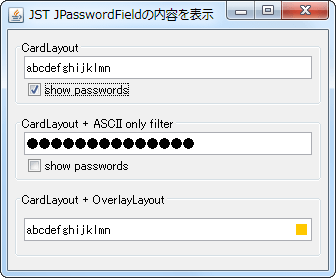
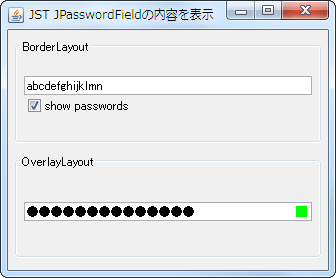
fix: use passwordField.setEchoChar((char) 0) instead of CardLayout + JTextField

diff --git a/ShowHidePasswordField/src/java/example/MainPanel.java b/ShowHidePasswordField/src/java/example/MainPanel.java
@@ -5,39 +5,38 @@ package example;
 import java.awt.*;
 import java.awt.event.*;
 import java.nio.charset.*;
+//import java.util.Objects;
 //import java.util.regex.*;
 import javax.swing.*;
 import javax.swing.text.*;
 
 public final class MainPanel extends JPanel {
-    private static final Font FONT = new Font(Font.MONOSPACED, Font.PLAIN, 12);
     public MainPanel() {
-        super(new GridLayout(3, 1, 0, 10));
-        add(makeTitlePanel(makeShowHidePasswordField(false), "CardLayout"));
-        add(makeTitlePanel(makeShowHidePasswordField(true), "CardLayout + ASCII only filter"));
+        super(new GridLayout(2, 1, 0, 10));
 
-        JPasswordField pf = new JPasswordField(24);
-        pf.setText("abcdefghijklmn");
-        AbstractDocument doc = (AbstractDocument) pf.getDocument();
-        doc.setDocumentFilter(new ASCIIOnlyDocumentFilter());
+        final JPasswordField pf1 = new JPasswordField(24);
+        pf1.setText("abcdefghijklmn");
+        JPanel p1 = new JPanel(new BorderLayout());
+        p1.add(pf1);
+        p1.add(new JCheckBox(new AbstractAction("show passwords") {
+            @Override public void actionPerformed(ActionEvent e) {
+                AbstractButton c = (AbstractButton) e.getSource();
+                Character ec = c.isSelected() ? 0 : (Character) UIManager.get("PasswordField.echoChar");
+                pf1.setEchoChar(ec);
+            }
+        }), BorderLayout.SOUTH);
+        add(makeTitlePanel(p1, "BorderLayout"));
 
-        JTextField tf = new JTextField(24);
-        tf.setFont(FONT);
-        tf.enableInputMethods(false);
-        tf.setDocument(doc);
-
-        final CardLayout cardLayout = new CardLayout();
-        final JPanel p = new JPanel(cardLayout);
-        p.setAlignmentX(Component.RIGHT_ALIGNMENT);
-
-        p.add(pf, PasswordField.HIDE.toString());
-        p.add(tf, PasswordField.SHOW.toString());
-
+        JPasswordField pf2 = new JPasswordField(24);
+        pf2.setText("abcdefghijklmn");
+        pf2.setAlignmentX(Component.RIGHT_ALIGNMENT);
+        //AbstractDocument doc = (AbstractDocument) pf2.getDocument();
+        //doc.setDocumentFilter(new ASCIIOnlyDocumentFilter());
         AbstractButton b = new JToggleButton(new AbstractAction() {
             @Override public void actionPerformed(ActionEvent e) {
                 AbstractButton c = (AbstractButton) e.getSource();
-                PasswordField s = c.isSelected() ? PasswordField.SHOW : PasswordField.HIDE;
-                cardLayout.show(p, s.toString());
+                Character ec = c.isSelected() ? 0 : (Character) UIManager.get("PasswordField.echoChar");
+                pf2.setEchoChar(ec);
             }
         });
         b.setFocusable(false);
@@ -50,50 +49,20 @@ public final class MainPanel extends JPanel {
         b.setRolloverIcon(new ColorIcon(Color.BLUE));
         b.setSelectedIcon(new ColorIcon(Color.RED));
         b.setRolloverSelectedIcon(new ColorIcon(Color.ORANGE));
+        b.setToolTipText("show/hide passwords");
 
-        JPanel panel = new JPanel() {
+        JPanel p2 = new JPanel() {
             @Override public boolean isOptimizedDrawingEnabled() {
                 return false;
             }
         };
-        panel.setLayout(new OverlayLayout(panel));
-        panel.add(b);
-        panel.add(p);
-
-        add(makeTitlePanel(panel, "CardLayout + OverlayLayout"));
+        p2.setLayout(new OverlayLayout(p2));
+        p2.add(b);
+        p2.add(pf2);
+        add(makeTitlePanel(p2, "OverlayLayout"));
 
         setBorder(BorderFactory.createEmptyBorder(10, 5, 10, 5));
         setPreferredSize(new Dimension(320, 240));
-    }
-    private static JComponent makeShowHidePasswordField(boolean ascii) {
-        JPasswordField pf = new JPasswordField(24);
-        pf.setText("abcdefghijklmn");
-        AbstractDocument doc = (AbstractDocument) pf.getDocument();
-        if (ascii) {
-            doc.setDocumentFilter(new ASCIIOnlyDocumentFilter());
-        }
-
-        JTextField tf = new JTextField(24);
-        tf.setFont(FONT);
-        tf.enableInputMethods(false);
-        tf.setDocument(doc);
-
-        final CardLayout cardLayout = new CardLayout();
-        final JPanel p = new JPanel(cardLayout);
-
-        p.add(pf, PasswordField.HIDE.toString());
-        p.add(tf, PasswordField.SHOW.toString());
-
-        JPanel panel = new JPanel(new BorderLayout());
-        panel.add(p);
-        panel.add(new JCheckBox(new AbstractAction("show passwords") {
-            @Override public void actionPerformed(ActionEvent e) {
-                JCheckBox c = (JCheckBox) e.getSource();
-                PasswordField s = c.isSelected() ? PasswordField.SHOW : PasswordField.HIDE;
-                cardLayout.show(p, s.toString());
-            }
-        }), BorderLayout.SOUTH);
-        return panel;
     }
     private JComponent makeTitlePanel(JComponent cmp, String title) {
         JPanel p = new JPanel(new GridBagLayout());
@@ -128,52 +97,52 @@ public final class MainPanel extends JPanel {
     }
 }
 
-enum PasswordField {
-    SHOW, HIDE;
-}
-
-class ASCIIOnlyDocumentFilter extends DocumentFilter {
-    //private static Pattern pattern = Pattern.compile("\\A\\p{ASCII}*\\z");
-    private static CharsetEncoder asciiEncoder = Charset.forName("US-ASCII").newEncoder();
-
-    @Override public void insertString(DocumentFilter.FilterBypass fb, int offset, String string, AttributeSet attr) throws BadLocationException {
-        if (string == null) {
-            return;
-        } else {
-            replace(fb, offset, 0, string, attr);
-        }
-    }
-    @Override public void remove(DocumentFilter.FilterBypass fb, int offset, int length) throws BadLocationException {
-        replace(fb, offset, length, "", null);
-    }
-    @Override public void replace(DocumentFilter.FilterBypass fb, int offset, int length, String text, AttributeSet attrs) throws BadLocationException {
-        Document doc = fb.getDocument();
-        int currentLength = doc.getLength();
-        String currentContent = doc.getText(0, currentLength);
-        String before = currentContent.substring(0, offset);
-        String after = currentContent.substring(length + offset, currentLength);
-        String newValue = before + (text == null ? "" : text) + after;
-        checkInput(newValue, offset);
-        fb.replace(offset, length, text, attrs);
-    }
-    //In Java, is it possible to check if a String is only ASCII? - Stack Overflow
-    //http://stackoverflow.com/questions/3585053/in-java-is-it-possible-to-check-if-a-string-is-only-ascii
-    private static void checkInput(String proposedValue, int offset) throws BadLocationException {
-        if (proposedValue.length() > 0 && !asciiEncoder.canEncode(proposedValue)) {
-            throw new BadLocationException(proposedValue, offset);
-        }
-//         for (char c: proposedValue.toCharArray()){
-//             if (((int) c) > 127) {
-//                 throw new BadLocationException(proposedValue, offset);
-//             }
+// enum PasswordField {
+//     SHOW, HIDE;
+// }
+//
+// class ASCIIOnlyDocumentFilter extends DocumentFilter {
+//     //private static Pattern pattern = Pattern.compile("\\A\\p{ASCII}*\\z");
+//     private static CharsetEncoder asciiEncoder = Charset.forName("US-ASCII").newEncoder();
+//
+//     @Override public void insertString(DocumentFilter.FilterBypass fb, int offset, String string, AttributeSet attr) throws BadLocationException {
+//         if (Objects.isNull(string)) {
+//             return;
+//         } else {
+//             replace(fb, offset, 0, string, attr);
 //         }
-//         //if (proposedValue.length() > 0 && !proposedValue.chars().allMatch(c -> c < 128)) { //JDK 8
-//         Matcher m = pattern.matcher(proposedValue);
-//         if (proposedValue.length() > 0 && !m.find()) {
+//     }
+//     @Override public void remove(DocumentFilter.FilterBypass fb, int offset, int length) throws BadLocationException {
+//         replace(fb, offset, length, "", null);
+//     }
+//     @Override public void replace(DocumentFilter.FilterBypass fb, int offset, int length, String text, AttributeSet attrs) throws BadLocationException {
+//         Document doc = fb.getDocument();
+//         int currentLength = doc.getLength();
+//         String currentContent = doc.getText(0, currentLength);
+//         String before = currentContent.substring(0, offset);
+//         String after = currentContent.substring(length + offset, currentLength);
+//         String newValue = before + (text == null ? "" : text) + after;
+//         checkInput(newValue, offset);
+//         fb.replace(offset, length, text, attrs);
+//     }
+//     //In Java, is it possible to check if a String is only ASCII? - Stack Overflow
+//     //http://stackoverflow.com/questions/3585053/in-java-is-it-possible-to-check-if-a-string-is-only-ascii
+//     private static void checkInput(String proposedValue, int offset) throws BadLocationException {
+//         if (proposedValue.length() > 0 && !asciiEncoder.canEncode(proposedValue)) {
 //             throw new BadLocationException(proposedValue, offset);
 //         }
-    }
-}
+// //         for (char c: proposedValue.toCharArray()){
+// //             if (((int) c) > 127) {
+// //                 throw new BadLocationException(proposedValue, offset);
+// //             }
+// //         }
+// //         //if (proposedValue.length() > 0 && !proposedValue.chars().allMatch(c -> c < 128)) { //JDK 8
+// //         Matcher m = pattern.matcher(proposedValue);
+// //         if (proposedValue.length() > 0 && !m.find()) {
+// //             throw new BadLocationException(proposedValue, offset);
+// //         }
+//     }
+// }
 
 class ColorIcon implements Icon {
     private final Color color;
